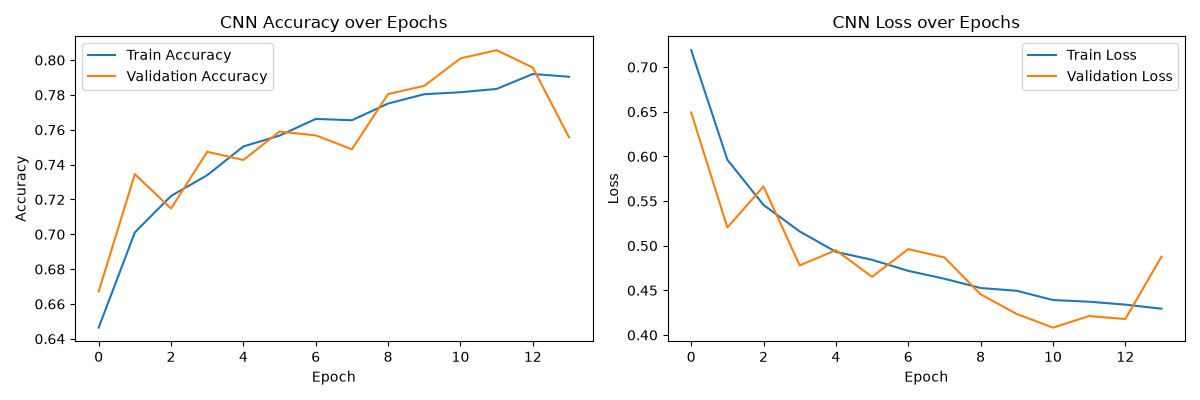
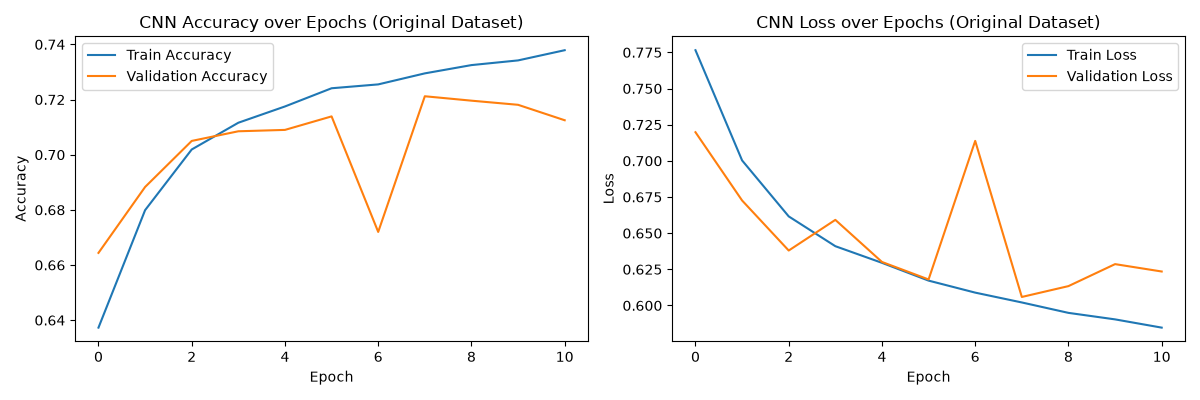
Updating the README.md with CNN Comparison Curves

diff --git a/README.md b/README.md
@@ -2,38 +2,52 @@
 
 A machine learning project to classify galaxies into morphological categories
 (Smooth, Spiral, Irregular) using image data from the Galaxy Zoo 2 dataset.
+Built as a portfolio project while completing Andrew Ng's Machine Learning
+Specialization (Course 2: Advanced Learning Algorithms).
 
 ## Motivation
 
-Galaxy morphology — the shape and structure of a galaxy — gives astronomers clues
-about its formation history and evolution. Galaxy Zoo crowd-sourced over 60,000
-galaxy classifications from citizen scientists, asking a sequence of visual
-questions about each galaxy. This project builds an image classifier that learns
-to predict these morphological categories directly from galaxy images.
+Galaxy morphology — the shape and structure of a galaxy — gives astronomers
+clues about its formation history and evolution. Galaxy Zoo crowd-sourced over
+60,000 galaxy classifications from citizen scientists, asking a sequence of
+visual questions about each galaxy image. This project builds image classifiers
+that learn to predict these morphological categories directly from galaxy images,
+progressing from a simple dense network baseline to a fine-tuned CNN with
+careful data quality handling.
 
 ## Dataset
 
 - **Source:** [Galaxy Zoo 2 — Kaggle "Galaxy Zoo: The Galaxy Challenge"](https://www.kaggle.com/c/galaxy-zoo-the-galaxy-challenge)
-- **Size:** 61,578 labeled training images
-- **Labels:** Each galaxy has vote fractions across 11 nested questions (a decision
-  tree), reflecting how many volunteers chose each answer. See `notebooks/01_eda.ipynb`
-  for the full decision tree reference and how vote fractions are computed.
+- **Size:** 61,578 labeled training images (424×424 original resolution)
+- **Labels:** Each galaxy has vote fractions across 11 nested questions (a
+  decision tree), reflecting how many volunteers chose each answer. See
+  `notebooks/01_eda.ipynb` for the full decision tree reference and how
+  vote fractions are computed.
 
-## Labeling Approach (v1)
+## Labeling Approach
 
-For this first version, the full 11-question tree is collapsed into 3 broad classes:
+Galaxy Zoo's labels are vote fractions, not clean categories — a value of 0.85
+in Class1.1 means 85% of volunteers said the galaxy looked smooth. Two labeling
+schemes were used in this project:
 
-- **Smooth** — majority of volunteers classified it as smooth/round
-- **Spiral** — majority classified it as having a spiral pattern
-- **Irregular** — has visible features, but no clear spiral pattern
+**v1 — Majority threshold (0.5):** Used for initial baseline models.
+- Class1.1 >= 0.5 → Smooth
+- Class4.1 >= 0.5 → Spiral
+- Otherwise → Irregular
+- Discard: Class1.3 >= 0.5 (stars/artifacts)
+- Result: 61,534 labeled galaxies
 
-Galaxies majority-classified as stars/artifacts are discarded. Full reasoning for
-this simplification is documented in `notebooks/01_eda.ipynb`.
+**v2 — Confidence filtering (0.7):** Used for best-performing models.
+- Only galaxies where >= 70% of volunteers agreed are kept
+- ~40% of the dataset dropped as genuinely ambiguous
+- Result: 36,812 high-confidence galaxies
 
-A future version (v2) will use finer-grained classes (e.g., splitting "Smooth"
-into round/in-between/cigar-shaped, and separating out edge-on disks).
+Full reasoning documented in `notebooks/01_eda.ipynb` and
+`notebooks/02_preprocessing.ipynb`.
 
 ## Class Distribution
+
+### v1 (majority threshold)
 
 | Class | Count |
 |---|---|
@@ -41,173 +55,142 @@ into round/in-between/cigar-shaped, and separating out edge-on disks).
 | Irregular | 25,269 |
 | Spiral | 10,397 |
 
+### v2 (confidence filtered)
+
+| Class | Count |
+|---|---|
+| Irregular | 16,153 |
+| Smooth | 14,146 |
+| Spiral | 6,513 |
+
 ![Class Distribution](reports/figures/class_distribution.png)
 
-Spiral galaxies are notably underrepresented relative to the other two classes —
-this imbalance will be addressed explicitly during model training (e.g., class
-weighting).
+Spiral galaxies are notably underrepresented in both versions — addressed via
+class weighting in the loss function during training.
 
-## Baseline Model — Dense Neural Network
+## Model Results
 
-First model: a simple dense (fully-connected) network on flattened 64x64x3 images
-(12,288 inputs). Two hidden layers (256 → 128 neurons) with dropout (0.3) for
-regularization, softmax output for the 3 classes.
+### Dense NN Baseline
 
-First training run (20 epochs, no early stopping) showed clear overfitting —
-training accuracy kept climbing (52.6% → 65.2%) but validation accuracy
-plateaued around epoch 9-10 (~63%) and got noisy/declined afterward. Makes
-sense given the first dense layer alone has over 3 million parameters (since
-flattening the image throws away spatial structure and connects every pixel to
-every neuron) — a lot of capacity to just memorize the training set with.
+First model: a simple dense (fully-connected) network on flattened 64×64×3
+images (12,288 inputs). Two hidden layers (256 → 128 neurons) with dropout
+(0.3) and softmax output.
 
-Refit with early stopping (`patience=3`, monitoring validation loss,
-restoring best weights) — training stopped at epoch 10, rolled back to the
-best epoch (epoch 7).
+First run showed clear overfitting — training accuracy kept climbing but
+validation accuracy plateaued then declined. Refit with early stopping
+(patience=3, restoring best weights).
 
-**Final test accuracy: 63.5%** (vs. ~33% random-chance baseline for 3 classes).
+**Test accuracy: 63.5%**
 
-![Baseline Training Curves](reports/figures/baseline_dense_nn_curves.png)
+Full training curves and reasoning in `notebooks/03_baseline_dense_nn.ipynb`.
 
-This is the baseline number future models (CNN, transfer learning) will be
-compared against. Full training curves and reasoning are in
-`notebooks/03_baseline_dense_nn.ipynb`.
+---
 
-## CNN Model
+### CNN (from scratch)
 
-Built a convolutional neural network to address the dense baseline's main
-limitation — flattening images destroys spatial structure. Architecture: three
-Conv2D + MaxPooling blocks (32 → 64 → 128 filters), followed by a Dense layer
-(128 neurons) and softmax output. Also added data augmentation (random flips and
-rotations), since galaxies have no fixed "correct" orientation in the sky.
+Three Conv2D + MaxPooling blocks (32 → 64 → 128 filters), Dense 128 head,
+dropout 0.3, softmax output. Data augmentation added (random flips and
+rotations) since galaxies have no fixed orientation in the sky. Trained on
+Google Colab T4 GPU.
 
-Trained on Google Colab (GPU) due to CPU training time constraints — this
-architecture would have taken an estimated 30+ minutes to over an hour per full
-run on the local CPU-only machine, versus a few minutes on GPU.
+The CNN addressed the dense baseline's main limitation: flattening images
+destroys spatial structure. CNNs use weight-shared filters that slide across
+the image, preserving spatial relationships and using far fewer parameters
+(1.14M vs 3.18M) despite being a deeper architecture.
 
-Used the same early stopping setup as the baseline (`patience=3`, monitoring
-validation loss, restoring best weights). Training stopped at epoch 11, with the
-best validation performance at epoch 8.
-
-**Final test accuracy: 72.7%** — a meaningful improvement over the dense
-baseline's 63.5%. The train/validation gap was also much smaller than the dense
-baseline's, suggesting the CNN generalizes better, likely due to both data
-augmentation and the architecture's inherent fit to image data (weight sharing
-via convolution, instead of treating every pixel as independent).
+**Test accuracy: 72.7%** (+9.2 points over dense baseline)
 
 ![CNN Training Curves](reports/figures/cnn_training_curves.png)
 
-## CNN + Confidence Filtering + Class Weighting
+Full code in `notebooks/04_cnn.ipynb`.
 
-Same CNN architecture as before (three Conv2D + MaxPooling blocks, 32 → 64 → 128
-filters, Dense 128 head, softmax output, data augmentation) — but trained on a
-cleaner, refiltered version of the dataset with two key changes:
+---
 
-**1. Confidence filtering (vote fraction >= 0.7)**
-Raised the labeling threshold from 0.5 to 0.7. Only galaxies where at least 70%
-of volunteers agreed on a class were kept — dropping 24,766 genuinely ambiguous
-galaxies (~40% of the original dataset). This left 36,812 high-confidence examples
-with much cleaner labels.
+### Transfer Learning — EfficientNetB0
 
-**2. Class weighting**
-Used sklearn's compute_class_weight to automatically calculate per-class weights
-based on frequency, then passed these to Keras via the class_weight parameter in
-.fit(). This penalizes Spiral misclassifications more heavily during training,
-since Spirals make up only ~18% of the confident dataset (~6,500 examples vs
-~16,000 Irregular and ~14,000 Smooth).
+Pretrained EfficientNetB0 backbone (ImageNet weights, frozen initially) with
+a custom classification head. Two-phase training:
+- Phase 1: train head only (backbone frozen, lr=1e-3) → ~70% val accuracy
+- Phase 2: fine-tune full model (backbone unfrozen, lr=1e-5) → 73.8% test accuracy
 
-**Final test accuracy: 80.1%** — the biggest single jump in the project, going
-from 72.7% (original CNN) to 80.1% just by fixing data quality and loss weighting,
-without changing the architecture at all.
+Used a tf.data pipeline instead of numpy arrays — loading 61k images at
+224×224 as numpy arrays requires ~37GB RAM (Colab has ~12GB). tf.data loads
+one batch at a time, keeping memory usage constant.
 
-![CNN Confident Curves](reports/figures/cnn_confident_curves.png)
+**Test accuracy: 73.8%** (+1.1 points over CNN baseline)
 
-### Key finding
-
-A simpler CNN on clean labels (80.1%) outperformed a pretrained EfficientNetB0
-on noisy labels (73.8%). Label quality mattered more than model complexity —
-which reflects a well-known principle in applied ML: garbage in, garbage out.
-The ~40% of the dataset that was dropped wasn't adding signal, it was adding
-noise that actively hurt the model's ability to learn clean decision boundaries.
-
-## Transfer Learning — EfficientNetB0 (v1)
-
-Built a transfer learning model using EfficientNetB0 pretrained on ImageNet as
-a frozen feature extractor, with a custom classification head (Dense 128 →
-Dropout 0.3 → Softmax 3). Used a two-phase training approach:
-
-- **Phase 1 (frozen backbone):** trained only the classification head at
-  learning rate 1e-3 — let the pretrained features do the work while the
-  new head learns to classify galaxies. Best val accuracy: ~70.0%.
-- **Phase 2 (full fine-tuning):** unfroze the entire backbone and continued
-  training at a much lower learning rate (1e-5) so the pretrained weights
-  could adapt to galaxy-specific patterns without catastrophically forgetting
-  what they learned on ImageNet. Val accuracy improved steadily every epoch
-  through all 10 epochs (early stopping never triggered — model was still
-  learning at the end).
-
-Also switched from loading preprocessed numpy arrays to a **tf.data pipeline**
-that loads and resizes raw images on the fly during training — necessary because
-loading 61k images at 224×224 all at once requires ~37GB RAM, far exceeding
-Colab's ~12GB limit. tf.data handles this by only keeping one batch (32 images)
-in memory at a time.
-
-**Final test accuracy: 73.8%** — a modest improvement over the CNN baseline
-(72.7%), smaller than expected. Likely reasons: EfficientNetB0 is a relatively
-small model (~4M params), and the domain gap between ImageNet (everyday photos)
-and galaxy images (grayscale-ish circular structures on black backgrounds) means
-pretrained features don't transfer as cleanly as they would for more similar
-domains.
+The modest gain over the CNN baseline pointed to label noise and class
+imbalance as the real bottleneck — not architecture.
 
 ![Transfer Learning Curves](reports/figures/transfer_learning_curves.png)
 
-## Model Comparison
+Full code in `notebooks/05_transfer_learning.ipynb`.
+
+---
+
+### CNN + Confidence Filtering + Class Weighting
+
+Same CNN architecture as before — but trained on the v2 confident dataset
+(36,812 images, 0.7 threshold) with class weighting to address Spiral
+underrepresentation.
+
+Key finding: a simpler CNN on clean labels (80.1%) outperformed a pretrained
+EfficientNetB0 on noisy labels (73.8%). Label quality mattered more than
+model complexity — roughly 40% of the original dataset was adding noise
+rather than signal.
+
+**Test accuracy: 80.1%** (+7.4 points over original CNN, best result so far)
+
+![CNN Confident Curves](reports/figures/cnn_confident_curves.png)
+
+Full code in `notebooks/04_cnn.ipynb` (Part 2).
+
+---
+
+## Full Model Comparison
 
 | Model | Dataset | Test Accuracy |
 |---|---|---|
 | Dense NN baseline | Original (61k, 0.5 threshold) | 63.5% |
-| CNN (from scratch) | Original (61k, 0.5 threshold) | 72.7% |
-| EfficientNetB0 (transfer learning) | Original (61k, 0.5 threshold) | 73.8% |
-| CNN + confidence filtering + class weighting | Confident (36k, 0.7 threshold) | 80.1% |
+| CNN from scratch | Original (61k, 0.5 threshold) | 72.7% |
+| EfficientNetB0 transfer learning | Original (61k, 0.5 threshold) | 73.8% |
+| CNN + confidence filtering + class weighting | Confident (36k, 0.7 threshold) | **80.1%** |
 
-**Planned improvements to push accuracy higher:**
-- Confidence filtering on labels (keep only high-confidence vote fractions ≥ 0.7)
-- Class weighting to address Spiral class underrepresentation
-- EfficientNetB3 with cleaner labels
-- Test Time Augmentation (TTA) at evaluation
+![CNN Comparison](reports/figures/cnn_comparison_curves.png)
 
 ## Project Structure
 
 - `data/` — raw and processed data (gitignored)
-- `notebooks/` — step-by-step development notebooks
+- `notebooks/` — step-by-step development notebooks (numbered in order)
 - `src/` — reusable functions (data loading, preprocessing, models, evaluation)
 - `models/` — saved trained model weights (gitignored)
 - `reports/figures/` — exported plots and visualizations
 
-## Approach
+## Notebooks
 
-1. **Data preprocessing** — load images, resize to 64x64, normalize, encode labels,
-   stratified train/val/test split *(done)*
-2. **Baseline model** — dense neural network *(done)*
-3. **CNN model** — convolutional architecture, trained on Google Colab (GPU) *(done)*
-4. **Transfer learning** — fine-tuning a pretrained CNN backbone *(in progress)*
-5. **Class imbalance handling** — class weighting / focal loss *(done)*
-6. **Classical ML comparison** — Random Forest on hand-engineered features
-7. **Interpretability** — Grad-CAM visualizations, confusion matrix, error analysis
+| Notebook | Description |
+|---|---|
+| `01_eda.ipynb` | EDA, decision tree schema, class distribution |
+| `02_preprocessing.ipynb` | Image loading, normalization, splits (v1 + v2) |
+| `03_baseline_dense_nn.ipynb` | Dense NN baseline, overfitting diagnosis, early stopping |
+| `04_cnn.ipynb` | CNN from scratch + confidence filtering + class weighting |
+| `05_transfer_learning.ipynb` | EfficientNetB0 two-phase fine-tuning, tf.data pipeline |
 
 ## Setup
 
-\`\`\`bash
+```bash
 python -m venv venv
 venv\Scripts\activate          # Windows
 pip install -r requirements.txt
-\`\`\`
+```
 
 Dataset must be downloaded separately from Kaggle and placed in `data/raw/`
-(see `notebooks/01_eda.ipynb` for expected folder structure).
+(see `notebooks/01_eda.ipynb` for expected folder structure). CNN and transfer
+learning models were trained on Google Colab T4 GPU — local CPU training is
+feasible only for the dense baseline and preprocessing steps.
 
 ## Status
 
-🚧 Work in progress — CNN with confidence filtering + class weighting achieved
-80.1% test accuracy (up from 72.7% baseline CNN). Key finding: label quality
-mattered more than model complexity. Next: EfficientNetB3 on confident dataset,
-then TTA.
+🚧 Work in progress — best result so far: 80.1% test accuracy (CNN +
+confidence filtering + class weighting). Next steps: EfficientNetB3 on
+confident dataset, Test Time Augmentation (TTA).